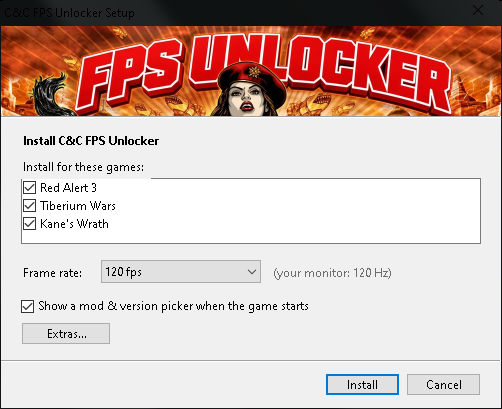
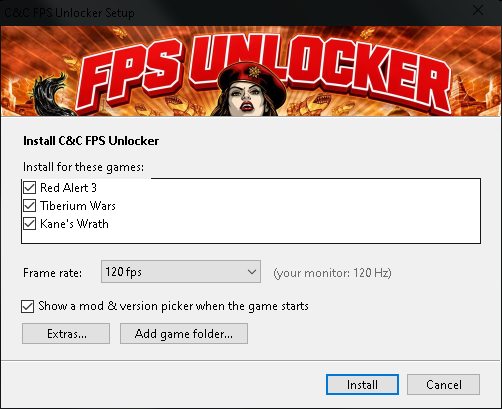
setup: add game folder button, drop-in install for non-Steam games (#9); zoom 1.75x clipping note (#10)

Changed region(s): [[0.239, 0.7922, 0.4781, 0.8509]]

diff --git a/src/RA3HighFps.cs b/src/RA3HighFps.cs
@@ -377,19 +377,20 @@ static class Program
             Controls.Add(new Label { Text = "Amount:", AutoSize = true, Location = new Point(34, 68) });
             foreach (float a in Amounts) amountBox.Items.Add(a.ToString("0.##", System.Globalization.CultureInfo.InvariantCulture) + "x");
             int idx = Array.FindIndex(Amounts, a => Math.Abs(a - current) < 0.01f);
-            amountBox.SelectedIndex = idx >= 0 ? idx : Amounts.Length - 1;
+            amountBox.SelectedIndex = idx >= 0 ? idx : 1;   // 1.5x
             amountBox.Bounds = new Rectangle(95, 65, 70, 23);
             amountBox.Enabled = zoomBox.Checked;
             zoomBox.CheckedChanged += (s, e) => amountBox.Enabled = zoomBox.Checked;
             Controls.Add(amountBox);
-            Controls.Add(new Label { AutoSize = false, Bounds = new Rectangle(34, 96, 330, 48), ForeColor = SystemColors.GrayText,
-                                     Text = "Red Alert 3 only. Works in skirmish and campaign; online and LAN games always use the normal zoom." });
+            Controls.Add(new Label { AutoSize = false, Bounds = new Rectangle(34, 96, 330, 80), ForeColor = SystemColors.GrayText,
+                                     Text = "Red Alert 3 only. Works in skirmish and campaign; online and LAN games always use the normal zoom.\n\n" +
+                                            "1.75x can cut off the top of the screen on maps with big height differences (water, cliffs)." });
 
-            var ok = new Button { Text = "OK", DialogResult = DialogResult.OK, Bounds = new Rectangle(208, 154, 75, 23) };
-            var cancel = new Button { Text = "Cancel", DialogResult = DialogResult.Cancel, Bounds = new Rectangle(289, 154, 75, 23) };
+            var ok = new Button { Text = "OK", DialogResult = DialogResult.OK, Bounds = new Rectangle(208, 186, 75, 23) };
+            var cancel = new Button { Text = "Cancel", DialogResult = DialogResult.Cancel, Bounds = new Rectangle(289, 186, 75, 23) };
             Controls.AddRange(new Control[] { ok, cancel });
             AcceptButton = ok; CancelButton = cancel;
-            ClientSize = new Size(380, 190);
+            ClientSize = new Size(380, 222);
         }
     }
     class SetupForm : Form
@@ -454,10 +455,25 @@ static class Program
             foreach (var g in games) { float z; if (float.TryParse(ReadIni(IniPath(g.Item2), "zoom"), System.Globalization.NumberStyles.Float, System.Globalization.CultureInfo.InvariantCulture, out z) && z > 1f) { zoomValue = z; break; } }
             var extras = new Button { Text = "Extras...", Bounds = new Rectangle(20, y + 62, 90, 23) };
             extras.Click += (s, e) => { using (var x = new ExtrasForm(zoomValue)) if (x.ShowDialog(this) == DialogResult.OK) zoomValue = x.Zoom; };
-            Controls.Add(extras);
+            var addFolder = new Button { Text = "Add game folder...", Bounds = new Rectangle(118, y + 62, 130, 23) };
+            Controls.AddRange(new Control[] { extras, addFolder });
             y += 100;
             Controls.Add(Line(y));
             var install = new Button { Text = "Install", Bounds = new Rectangle(324, y + 13, 75, 23), Enabled = games.Count > 0 };
+            // for games it didn't find (EA app / Origin / disc in odd places)
+            addFolder.Click += (s, e) =>
+            {
+                using (var d = new FolderBrowserDialog { Description = "Pick the game's install folder (the one with the .SkuDef files, e.g. ...\\Red Alert 3)" })
+                {
+                    if (d.ShowDialog(this) != DialogResult.OK) return;
+                    string dir = d.SelectedPath.TrimEnd('\\');
+                    if (!IsGameFolder(dir)) { MessageBox.Show(this, "That doesn't look like a supported game folder (no .SkuDef files in it).", "Setup"); return; }
+                    if (games.Any(g => string.Equals(Path.GetFullPath(g.Item2).TrimEnd('\\'), dir, StringComparison.OrdinalIgnoreCase))) return;
+                    games.Add(Tuple.Create(GameName(dir) + (IsSteamInstall(dir) ? "" : " (non-Steam)"), dir));
+                    gameList.Items.Add(games.Last().Item1, true);
+                    install.Enabled = true;
+                }
+            };
             var cancel = new Button { Text = "Cancel", Bounds = new Rectangle(405, y + 13, 75, 23) };
             cancel.Click += (s, e) => Close();   // not a dialog
             install.Click += (s, e) => Install();
@@ -477,12 +493,19 @@ static class Program
 
         void Install()
         {
-            var done = new List<Tuple<string, string>>();   // name, launch option
+            var done = new List<Tuple<string, string>>();   // name, launch option (null = drop-in, just play)
             try
             {
                 foreach (int i in gameList.CheckedIndices)
                 {
                     string dir = games[i].Item2;
+                    if (!IsSteamInstall(dir))
+                    {
+                        // no launch options outside steam, so install the drop-in dll next to the real exe
+                        InstallDropIn(dir, SelectedFps(), zoomValue);
+                        done.Add(Tuple.Create(games[i].Item1, (string)null));
+                        continue;
+                    }
                     string target = Path.Combine(dir, "RA3HighFps.exe");
                     if (!string.Equals(Path.GetFullPath(Application.ExecutablePath), Path.GetFullPath(target), StringComparison.OrdinalIgnoreCase))
                         File.Copy(Application.ExecutablePath, target, true);
@@ -492,6 +515,11 @@ static class Program
                     SetIni(IniPath(dir), "zoom", zoomValue.ToString("0.##", System.Globalization.CultureInfo.InvariantCulture));
                     done.Add(Tuple.Create(games[i].Item1, "\"" + target + "\" %command%"));
                 }
+            }
+            catch (UnauthorizedAccessException ex)
+            {
+                MessageBox.Show(this, "Couldn't write to the game folder:\n\n" + ex.Message + "\n\nRight-click the setup and pick \"Run as administrator\".", "Setup", MessageBoxButtons.OK, MessageBoxIcon.Error);
+                return;
             }
             catch (Exception ex)
             {
@@ -518,15 +546,24 @@ static class Program
             ShowIcon = false;
             StartPosition = FormStartPosition.CenterScreen;
 
-            Controls.Add(new Label { Text = "Installed at " + fps + " fps. One last step for each game:", AutoSize = true,
+            bool steam = done.Any(d => d.Item2 != null);
+            Controls.Add(new Label { Text = "Installed at " + fps + " fps." + (steam ? " One last step for each Steam game:" : ""), AutoSize = true,
                                      Location = new Point(20, 18), Font = new Font(Font, FontStyle.Bold) });
             Controls.Add(new Label { AutoSize = true, Location = new Point(20, 42), UseMnemonic = false,
-                                     Text = "In Steam, right-click the game > Properties > Launch Options, and paste its line." });
+                                     Text = steam ? "In Steam, right-click the game > Properties > Launch Options, and paste its line."
+                                                  : "Start the games however you normally do." });
 
             int y = 74;
             foreach (var d in done)
             {
                 Controls.Add(new Label { Text = d.Item1, AutoSize = true, Location = new Point(20, y), UseMnemonic = false });
+                if (d.Item2 == null)
+                {
+                    Controls.Add(new Label { AutoSize = true, Location = new Point(20, y + 22), ForeColor = SystemColors.GrayText, UseMnemonic = false,
+                                             Text = "Ready, nothing else to do. Just start the game normally." });
+                    y += 56;
+                    continue;
+                }
                 var box = new TextBox { Text = d.Item2, ReadOnly = true, Bounds = new Rectangle(20, y + 20, 380, 23) };
                 var copy = new Button { Text = "Copy", Bounds = new Rectangle(405, y + 19, 75, 25) };
                 copy.Click += (s, e) => { Clipboard.SetText(box.Text); copy.Text = "Copied"; };
@@ -690,6 +727,24 @@ static class Program
     }
 
     static string IniPath(string game) { return Path.Combine(game, "RA3HighFps.ini"); }
+
+    // non-steam install: proxy dll + CnCFpsUnlocker.dll + ini next to the real exe (from the skudef's set-exe)
+    static void InstallDropIn(string game, int fps, float zoom)
+    {
+        string exe = Path.Combine(game, SetExe(LatestSkuDef(game, null)));
+        string dir = Path.GetDirectoryName(exe);
+        string proxy = exe.EndsWith(".game", StringComparison.OrdinalIgnoreCase) ? "d3d9.dll" : "dinput8.dll";   // ra3 : tw/kw
+        foreach (string name in new[] { proxy, "CnCFpsUnlocker.dll" })
+            using (var s = typeof(Program).Assembly.GetManifestResourceStream(name))
+            {
+                if (s == null) throw new Exception("This build doesn't include the drop-in files (" + name + "). Use the drop-in zip from the releases page instead.");
+                using (var f = File.Create(Path.Combine(dir, name))) s.CopyTo(f);
+            }
+        string ini = Path.Combine(dir, "RA3HighFps.ini");
+        if (!File.Exists(ini)) File.WriteAllLines(ini, new[] { "; C&C FPS Unlocker settings (fps: multiple of 15, 30-240; zoom: ra3 only, 1 = off)" });
+        SetIni(ini, "fps", fps.ToString());
+        SetIni(ini, "zoom", zoom.ToString("0.##", System.Globalization.CultureInfo.InvariantCulture));
+    }
 
     static int MonitorHz()
     {

diff --git a/README.md b/README.md
@@ -16,7 +16,9 @@ These games are locked to 30 fps and if you just unlock them the whole game spee
 To change fps later just run the setup again, or edit `RA3HighFps.ini` in the game folder.
 To uninstall, clear the launch options box in Steam.
 
-Needs the **Steam** versions (RA3 1.13, Tiberium Wars 1.10, Kane's Wrath 1.3).
+Tested on the **Steam** versions (RA3 1.13, Tiberium Wars 1.10, Kane's Wrath 1.3).
+
+**EA app / Origin / other non-Steam copies:** if the setup doesn't find your game, use **Add game folder...** and pick the game's install folder. Non-Steam games get the drop-in version installed (see below), so there's no launch option to set, just start the game like normal. If the game folder is in Program Files you might need to run the setup as administrator.
 
 ### Drop-in version (no installer, no exe) - testing
 
